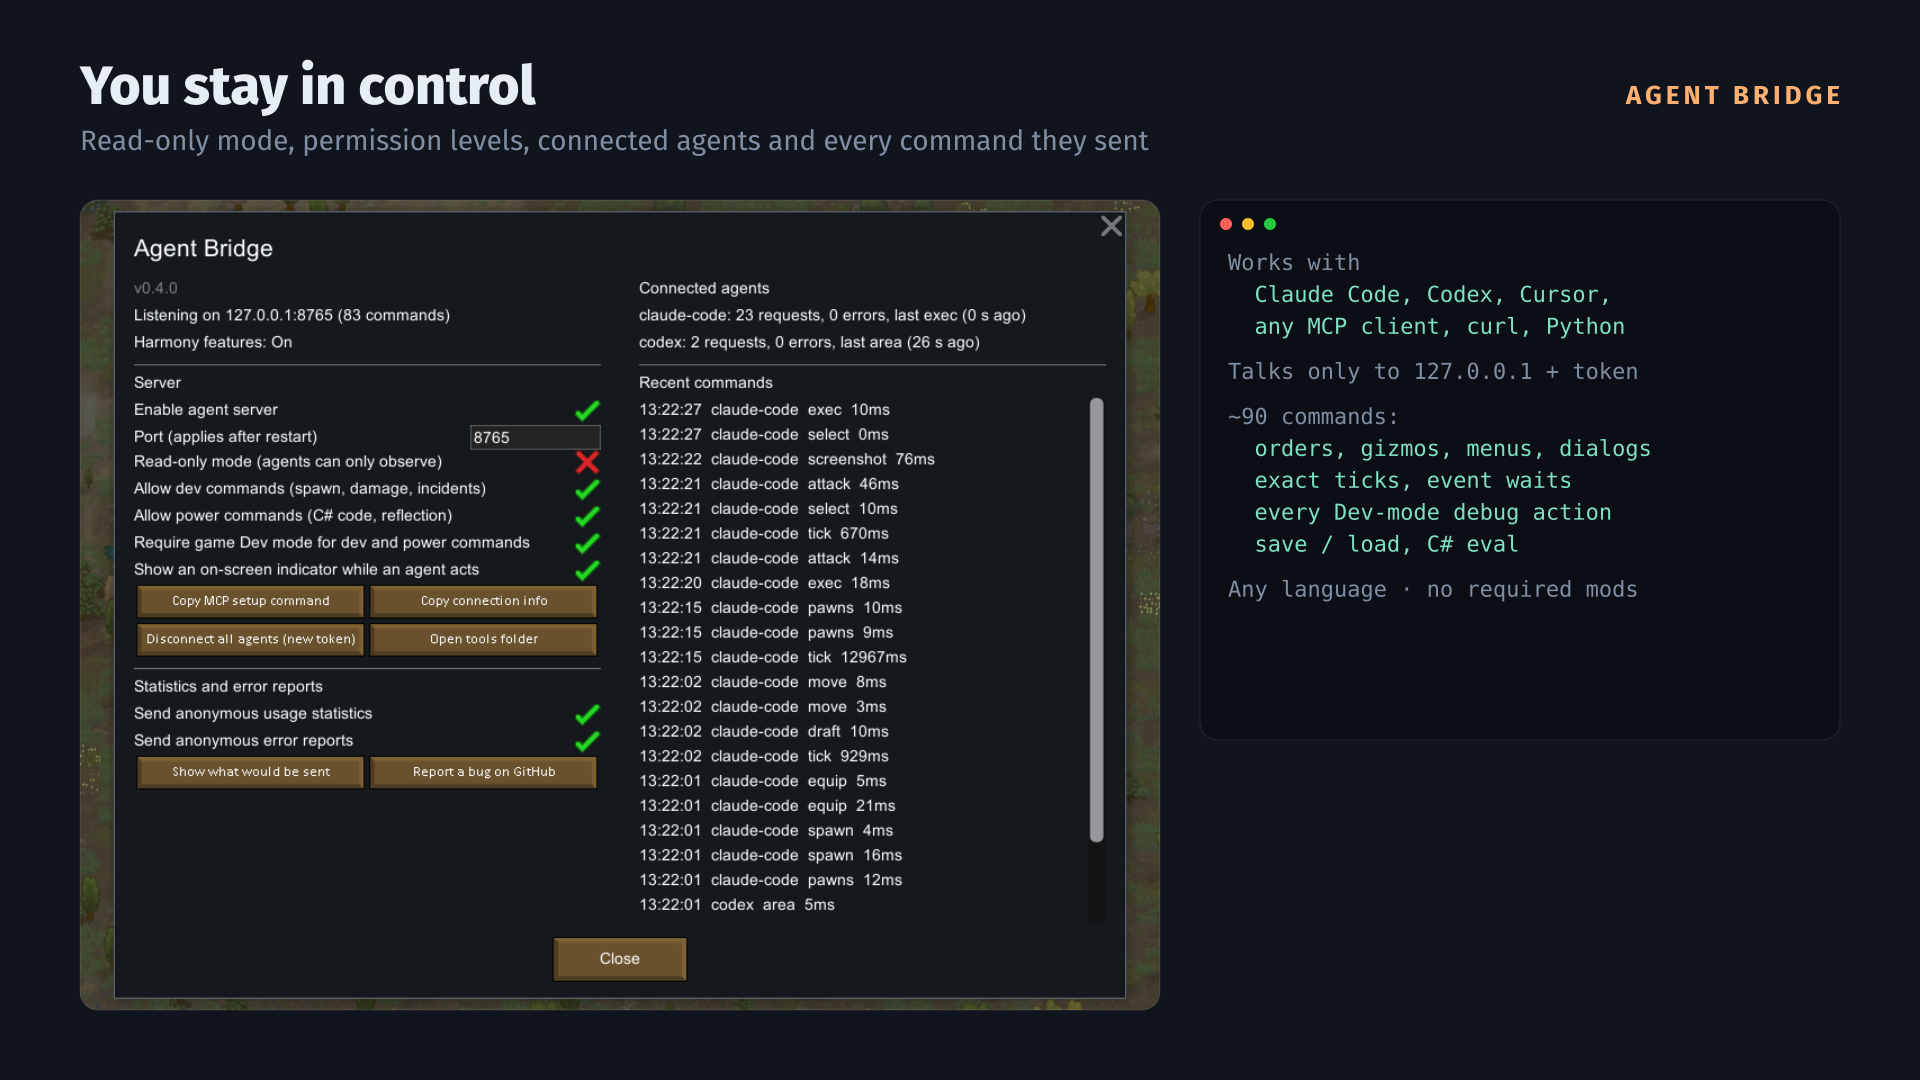
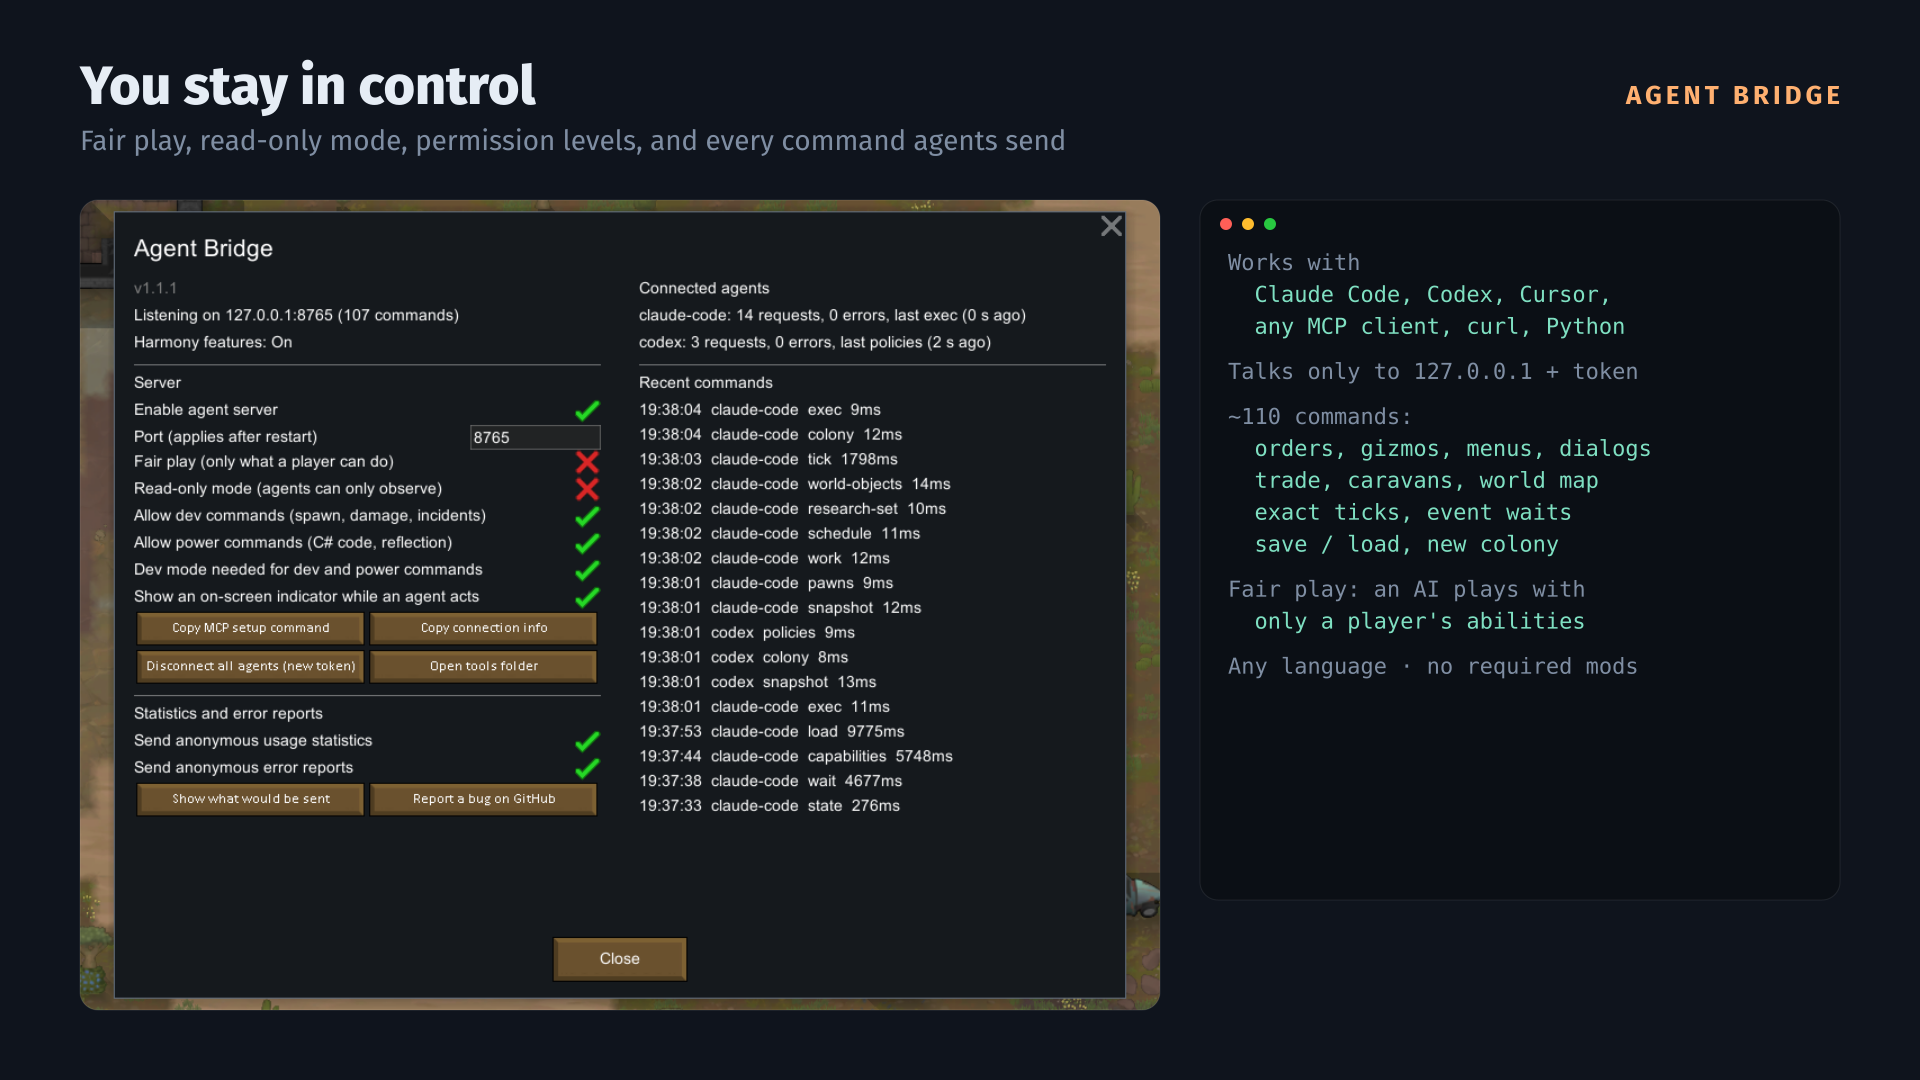
1.1.1: exact path/link in messages, updated Steam screenshot

diff --git a/docs/media/make_screens.py b/docs/media/make_screens.py
@@ -62,10 +62,11 @@ render('2-map', title('Agents read the map as text', 'One character per cell —
        + image(src/'area-crop.png', 760, 200, 1080, 820))
 
 # 3. player stays in control
-render('3-control', title('You stay in control', 'Read-only mode, permission levels, connected agents and every command they sent')
-       + image(src/'settings.png', 80, 200, 1080, 810) + term(1200, 200, 640, 540, [
+render('3-control', title('You stay in control', 'Fair play, read-only mode, permission levels, and every command agents send')
+       + image(src/'settings.png', 80, 200, 1080, 810) + term(1200, 200, 640, 700, [
            ('out', 'Works with'), ('ok', '  Claude Code, Codex, Cursor,'), ('ok', '  any MCP client, curl, Python'), ('gap', ''),
            ('out', 'Talks only to 127.0.0.1 + token'), ('gap', ''),
-           ('out', '~90 commands:'), ('ok', '  orders, gizmos, menus, dialogs'), ('ok', '  exact ticks, event waits'), ('ok', '  every Dev-mode debug action'), ('ok', '  save / load, C# eval'), ('gap', ''),
+           ('out', '~110 commands:'), ('ok', '  orders, gizmos, menus, dialogs'), ('ok', '  trade, caravans, world map'), ('ok', '  exact ticks, event waits'), ('ok', '  save / load, new colony'), ('gap', ''),
+           ('out', 'Fair play: an AI plays with'), ('ok', '  only a player\'s abilities'), ('gap', ''),
            ('out', 'Any language · no required mods'),
        ], size=22))

diff --git a/Source/Telemetry/Telemetry.cs b/Source/Telemetry/Telemetry.cs
@@ -197,7 +197,8 @@ namespace AgentBridge
             try { Application.OpenURL(target); }
             catch (Exception e) { Log.Warning("[AgentBridge] could not open " + target + ": " + e.Message); }
             string shown = target.Length > 120 ? target.Substring(0, 120) + "…" : target;
-            Find.WindowStack.Add(new Dialog_MessageBox(messageKey.Translate(shown)));
+            // The path is appended raw: passing it as a Translate argument lets the game capitalise it ("File:///Home…").
+            Find.WindowStack.Add(new Dialog_MessageBox(messageKey.Translate().Resolve().TrimEnd() + "\n" + shown));
         }
 
         /// <summary>Proper file:// URI (spaces, Windows drive letters and backslashes are escaped correctly).</summary>

diff --git a/CHANGELOG.ru.md b/CHANGELOG.ru.md
@@ -10,6 +10,7 @@
 - Мод, сборку которого не удалось просканировать, больше не мешает запуску Agent Bridge.
 - Некорректный JSON даёт 400; неактивные keep-alive соединения закрываются через 15 минут; имена агентов очищаются.
 - Честная игра скрывает пункты «Dev:» и в уже открытых меню; выход из игры ждёт отправку статистики не дольше 2 с.
+- Открываемые путь и ссылка показываются точно (раньше форматтер перевода делал буквы заглавными).
 - Короче подпись «Нужен режим разработчика…» на всех языках (она переносилась на соседнюю галочку).
 
 ## 1.1.0 — честная игра: ИИ проходит всю игру

diff --git a/CHANGELOG.md b/CHANGELOG.md
@@ -9,6 +9,7 @@
 - A mod whose assembly fails to scan no longer stops Agent Bridge's startup.
 - Invalid JSON returns 400; idle keep-alive connections close after 15 minutes; agent names are sanitised.
 - Fair play also hides "Dev:" options inside already open menus; quitting never waits more than 2 s for statistics.
+- The opened path/link is shown exactly (it was capitalised by the translation formatter).
 - Shorter "Dev mode needed…" label in all languages (it wrapped over the next checkbox).
 
 ## 1.1.0 — fair play: let an AI play the whole game
